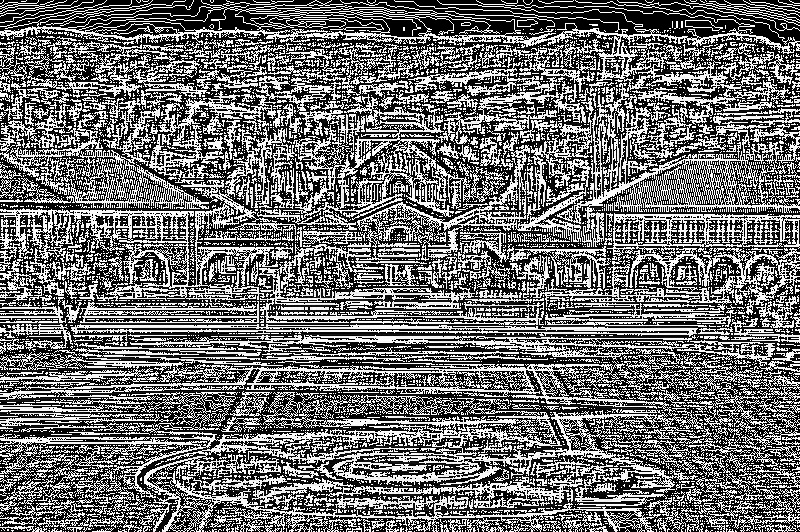
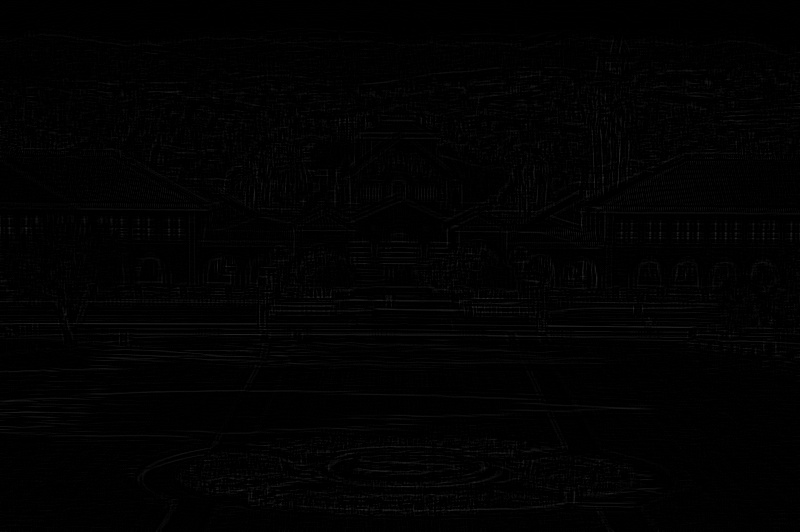
add cpp and hpp files

diff --git a/hw6/image.cpp b/hw6/image.cpp
@@ -1,0 +1,119 @@
+#include <string>
+#include <boost/multi_array.hpp>
+#include <iostream>
+#include <iomanip>
+
+#include "hw6.hpp"
+#include "image.hpp"
+
+image::image(std::string filename):filename_(filename){}
+
+void image::loadImage(void){
+  ReadGrayscaleJPEG(filename_,img_);
+}
+
+void image::Save(std::string output = ""){
+  if (output == "")
+    WriteGrayscaleJPEG(filename_,img_);
+  else
+    WriteGrayscaleJPEG(output,img_);
+}
+
+void Convolution(boost::multi_array<unsigned char,2>& input,
+                     boost::multi_array<unsigned char,2>& output,
+                     boost::multi_array<float,2>&         kernel){
+
+  if (kernel.shape()[0] != kernel.shape()[1]){
+    std::cout<<"The kernel is not square"<<std::endl;
+    std::exit(EXIT_FAILURE);
+  };
+
+  if (kernel.shape()[0] % 2 == 0){
+    std::cout<<"The kernel size is even"<<std::endl;
+    std::exit(EXIT_FAILURE);
+  };
+
+  unsigned int nrows_k = (unsigned int)kernel.shape()[0];
+  unsigned int add_rows = (unsigned int)floor(nrows_k/2);
+  unsigned int nrows_input = (unsigned int)input.shape()[0];
+  unsigned int ncol_input = (unsigned int)input.shape()[1];
+
+  boost::multi_array<float,2> a(boost::extents[nrows_input+nrows_k-1][ncol_input+nrows_k-1]);
+  for (unsigned int i = add_rows; i<add_rows+nrows_input;i++){
+    for (unsigned int j = add_rows; j<add_rows+ncol_input;j++)
+      a[i][j]=(float)input[i-add_rows][j-add_rows];
+    for (unsigned int j = 0; j<add_rows;j++)
+      a[i][j]=(float)input[i-add_rows][0];
+    for (unsigned int j = add_rows+ncol_input; j<add_rows+add_rows+ncol_input;j++){
+      a[i][j]=(float)input[i-add_rows][ncol_input-1];
+    }
+  }
+
+  for (unsigned int i = 0; i<add_rows;i++){
+    for (unsigned int j = add_rows; j<add_rows+ncol_input;j++)
+      a[i][j] = (float)input[0][j-add_rows];
+    for (unsigned int j = 0; j<add_rows;j++)
+      a[i][j] = (float)input[0][0];
+    for (unsigned int j = add_rows+ncol_input; j<add_rows+add_rows+ncol_input;j++)
+      a[i][j]=(float)input[0][ncol_input-1];
+  }
+
+  for (unsigned int i = add_rows+nrows_input; i<add_rows+add_rows+nrows_input;i++){
+    for (unsigned int j = add_rows; j<add_rows+ncol_input;j++)
+      a[i][j] = (float)input[nrows_input-1][j-add_rows];
+    for (unsigned int j = 0; j<add_rows;j++)
+      a[i][j] = (float)input[nrows_input-1][0];
+    for (unsigned int j = add_rows+ncol_input; j<add_rows+add_rows+ncol_input;j++)
+      a[i][j]=(float)input[nrows_input-1][ncol_input-1];
+  }
+
+  float conv = 0;
+  for (unsigned int i = 0; i < nrows_input; i++){
+    for (unsigned int j = 0; j < ncol_input; j++){
+      conv =0;
+      for (unsigned int i2 = 0; i2<nrows_k; i2++){
+        for (unsigned int j2 = 0; j2<nrows_k; j2++){
+          conv = conv + (float)kernel[i2][j2]*(float)a[i+i2][j+j2];
+        }
+      }
+      conv = std::max(conv,(float)0);
+      conv = std::min(conv,(float)255);
+      output[i][j]=(unsigned char)floor(conv);
+    }
+  }
+
+}
+
+void image::BoxBlur(int kernel_size){
+  unsigned int kernel_s = (unsigned int)kernel_size;
+  boost::multi_array<float, 2> kernel(boost::extents[kernel_s][kernel_s]);
+  for (unsigned int i = 0; i < kernel_s; i++) {
+    for (unsigned int j = 0; j < kernel_s; j++) {
+      kernel[i][j] = (float)1/((float)kernel_size*(float)kernel_size);
+    }
+  }
+  Convolution(img_,img_,kernel);
+}
+
+unsigned int image::Sharpness(void){
+  unsigned int maximum = 0;
+
+  boost::multi_array<float, 2> kernel(boost::extents[3][3]);
+  kernel[0][0] = 0;
+  kernel[0][1] = 1;
+  kernel[0][2] = 0;
+  kernel[1][0] = 1;
+  kernel[1][1] = -4;
+  kernel[1][2] = 1;
+  kernel[2][0] = 0;
+  kernel[2][1] = 1;
+  kernel[2][2] = 0;
+
+  Convolution(img_,img_,kernel);
+
+  for (unsigned int n = 0; n < img_.num_elements(); n++) {
+    if ((unsigned int)img_.data()[n]>maximum)
+      maximum = (unsigned int)img_.data()[n];
+  }
+  return maximum;
+}

diff --git a/hw6/hw6.cpp b/hw6/hw6.cpp
@@ -1,0 +1,111 @@
+#include <sstream>
+#include <stdexcept>
+#include <string>
+
+#define BOOST_DISABLE_ASSERTS
+#include <boost/multi_array.hpp>
+#include <jpeglib.h>
+
+#include "hw6.hpp"
+
+void ReadGrayscaleJPEG(std::string filename,
+                       boost::multi_array<unsigned char, 2>& img) {
+  /* Open the file, read the header, and allocate memory */
+
+  FILE* f = fopen(filename.c_str(), "rb");
+  if (not f) {
+    std::stringstream s;
+    s << __func__ << ": Failed to open file " << filename;
+    throw std::runtime_error(s.str());
+  }
+
+  struct jpeg_decompress_struct cinfo;
+  struct jpeg_error_mgr jerr;
+
+  cinfo.err = jpeg_std_error(&jerr);
+  jpeg_create_decompress(&cinfo);
+  jpeg_stdio_src(&cinfo, f);
+  jpeg_read_header(&cinfo, true);
+
+  if (cinfo.num_components != 1 or cinfo.jpeg_color_space != JCS_GRAYSCALE) {
+    std::stringstream s;
+    s << __func__ << ": Attempt to read color file " << filename;
+    throw std::runtime_error(s.str());
+  }
+
+  img.resize(boost::extents[cinfo.image_height][cinfo.image_width]);
+  unsigned char* raw_image = img.data();
+
+  /* Decompress JPEG */
+
+  jpeg_start_decompress(&cinfo);
+  JSAMPROW row_pointer;
+  row_pointer = (unsigned char*)malloc(cinfo.output_width *
+                                       (unsigned int)cinfo.num_components);
+
+  unsigned long location = 0;
+  while (cinfo.output_scanline < cinfo.image_height) {
+    jpeg_read_scanlines(&cinfo, &row_pointer, 1);
+    for (unsigned int i = 0;
+         i < cinfo.image_width * (unsigned int)cinfo.num_components; i++) {
+      raw_image[location++] = row_pointer[i];
+    }
+  }
+
+  jpeg_finish_decompress(&cinfo);
+  jpeg_destroy_decompress(&cinfo);
+  free(row_pointer);
+  fclose(f);
+}
+
+void WriteGrayscaleJPEG(std::string filename,
+                        boost::multi_array<unsigned char, 2>& img) {
+  /* Open the file and write the header */
+
+  FILE* f = fopen(filename.c_str(), "wb");
+  if (not f) {
+    std::stringstream s;
+    s << __func__ << ": Failed to open file " << filename;
+    throw std::runtime_error(s.str());
+  }
+
+  struct jpeg_compress_struct cinfo;
+  struct jpeg_error_mgr jerr;
+
+  cinfo.err = jpeg_std_error(&jerr);
+  jpeg_create_compress(&cinfo);
+  jpeg_stdio_dest(&cinfo, f);
+
+  auto shape = img.shape();
+  cinfo.image_width = (unsigned int)shape[1];
+  cinfo.image_height = (unsigned int)shape[0];
+  cinfo.input_components = 1;
+  cinfo.in_color_space = JCS_GRAYSCALE;
+
+  jpeg_set_defaults(&cinfo);
+  jpeg_set_quality(&cinfo, 95, true); // 95 is the quality (can be 0 to 100)
+
+  /* Compress image */
+
+  jpeg_start_compress(&cinfo, true);
+
+  JSAMPROW row_pointer;
+  unsigned char* raw_image = img.data();
+  while (cinfo.next_scanline < cinfo.image_height) {
+    row_pointer = (JSAMPROW)&raw_image[cinfo.next_scanline * cinfo.image_width];
+    jpeg_write_scanlines(&cinfo, &row_pointer, 1);
+  }
+
+  jpeg_finish_compress(&cinfo);
+  fclose(f);
+}
+
+#ifdef DEBUG
+int main() {
+  boost::multi_array<unsigned char, 2> img;
+  ReadGrayscaleJPEG("stanford.jpg", img);
+  WriteGrayscaleJPEG("test.jpg", img);
+
+  return 0;
+}
+#endif /* DEBUG */

diff --git a/hw6/main.cpp b/hw6/main.cpp
@@ -1,0 +1,50 @@
+#include <string>
+#include <iostream>
+
+#include "image.hpp"
+
+int main() {
+  std::string file = "stanford.jpg";
+
+  std::string output;
+  image arr[7] = {image(file),image(file),
+  image(file),image(file),image(file),
+  image(file),image(file)};
+
+  std::vector<int> v;
+  v.push_back(3);
+  v.push_back(7);
+  v.push_back(11);
+  v.push_back(15);
+  v.push_back(19);
+  v.push_back(23);
+  v.push_back(27);
+
+  image photo0 = image(file);
+  photo0.loadImage();
+  unsigned int sharp0 = photo0.Sharpness();
+  std::cout<<"Original image: "<<sharp0;
+
+  int n = 0;
+
+  for (int t : v){
+    arr[n].loadImage();
+    arr[n].BoxBlur(t);
+    unsigned int sharp = arr[n].Sharpness();
+    if (t<10){
+      std::cout<<" BoxBlur( "<<t;
+      output = "BoxBlur0";
+    }
+    else{
+      std::cout<<" BoxBlur("<<t;
+      output = "BoxBlur";
+    }
+    std::cout<<"): "<<sharp;
+    output = output+std::to_string(t)+".jpg";
+    arr[n].Save(output);
+    n++;
+  }
+  std::cout<<std::endl;
+}
+
+

diff --git a/hw6/image.hpp b/hw6/image.hpp
@@ -1,0 +1,22 @@
+#ifndef IMAGE_HPP
+
+#include <string>
+#include <boost/multi_array.hpp>
+
+class image {
+
+    std::string filename_;
+    boost::multi_array<unsigned char, 2> img_;
+
+  public:
+    image(std::string filename);
+    void loadImage(void);
+    void Save(std::string output);
+    void BoxBlur(int kernel_size);
+    unsigned int Sharpness(void);
+};
+
+void Convolution(boost::multi_array<unsigned char,2>& input,
+                     boost::multi_array<unsigned char,2>& output,
+                     boost::multi_array<float,2>&         kernel);
+#endif /* IMAGE_HPP */

diff --git a/hw6/hw6.hpp b/hw6/hw6.hpp
@@ -1,0 +1,17 @@
+#ifndef HW6_HPP
+#define HW6_HPP
+
+#include <string>
+
+#include <boost/multi_array.hpp>
+
+/* Reads a grayscale JPEG image and returns the contents in the Boost MultiArray
+ */
+void ReadGrayscaleJPEG(std::string filename,
+                       boost::multi_array<unsigned char, 2>& img);
+
+/* Writes the contents of a Boost MultiArray to a grayscale JPEG image. */
+void WriteGrayscaleJPEG(std::string filename,
+                        boost::multi_array<unsigned char, 2>& img);
+
+#endif /* HW6_HPP */
